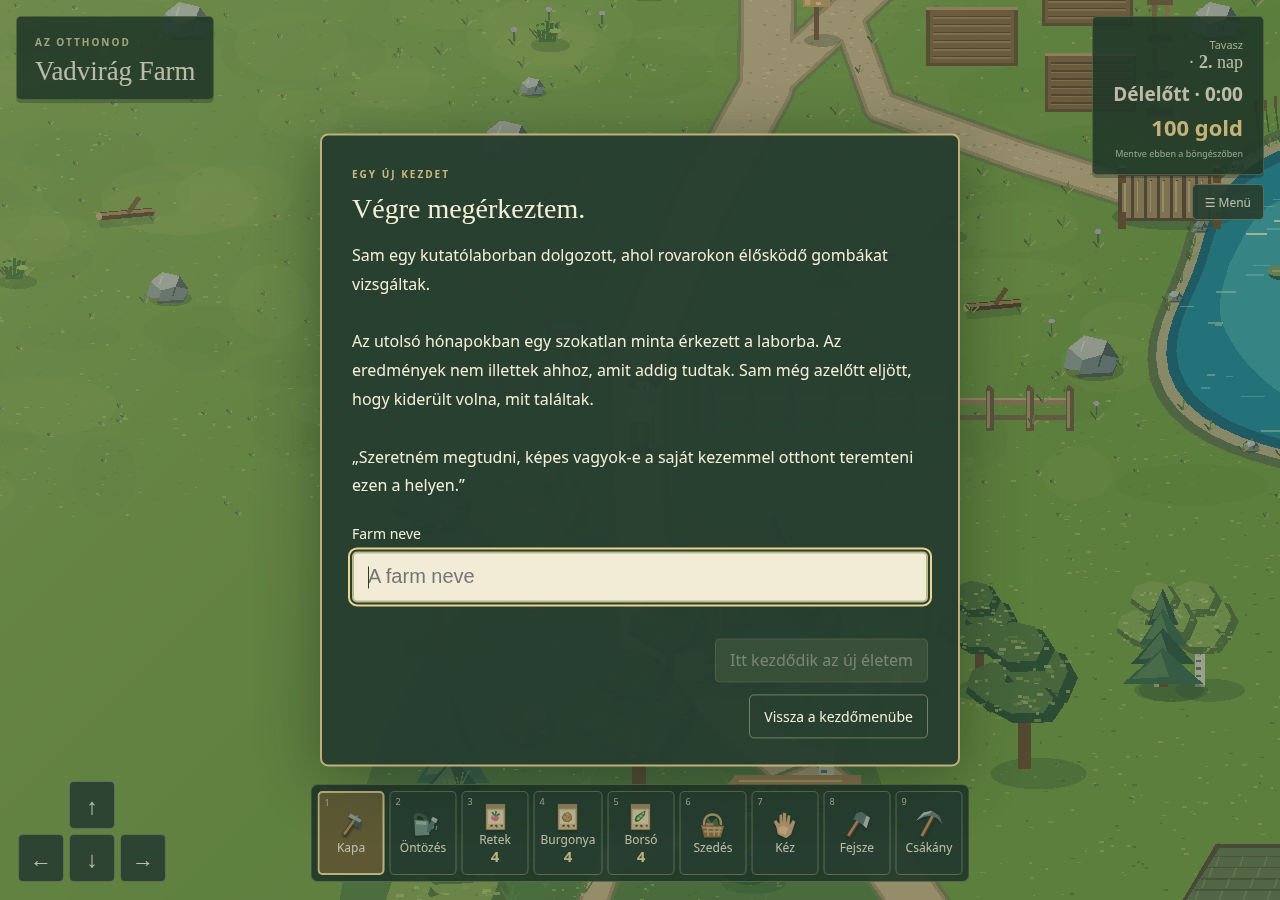
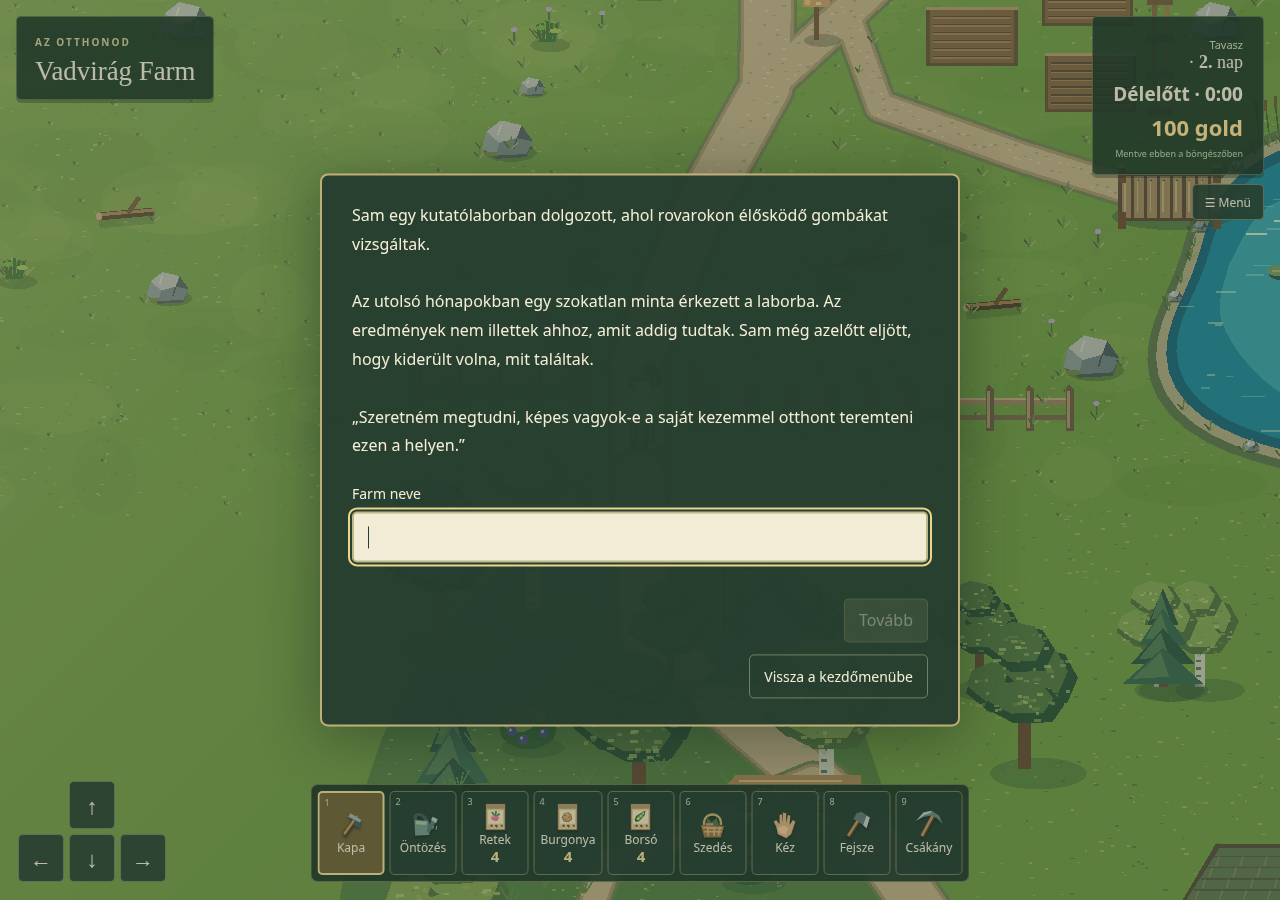
Simplify the introduction headings and farm naming controls

Changed region(s): [[0.25, 0.1244, 0.75, 0.8711]]

diff --git a/index.html b/index.html
@@ -33,7 +33,7 @@
   <div id="sleep-shade" aria-hidden="true"></div>
   <p id="status" role="status"></p>
   <div id="controls" aria-label="Mozgásvezérlés"><button data-dir="up" aria-label="Fel">↑</button><button data-dir="left" aria-label="Balra">←</button><button data-dir="down" aria-label="Le">↓</button><button data-dir="right" aria-label="Jobbra">→</button></div>
-  <dialog id="dialogue" aria-labelledby="dialogue-title"><form method="dialog"><div id="speaker" hidden><div id="speaker-portrait"></div><span id="speaker-name"></span></div><span class="eyebrow" id="dialogue-label">EGY ÚJ KEZDET</span><h2 id="dialogue-title">Végre megérkeztem.</h2><p id="dialogue-text"></p><section id="preview-end-panel" hidden><button id="preview-farms" type="button">Vissza a farmválasztáshoz</button></section><section id="start-panel" hidden><div class="start-actions"><button id="continue-farm" type="button" hidden>Folytatás<small id="continue-farm-name"></small></button><button id="new-farm" type="button">Új játék</button></div><p class="farm-library-hint">Minden farm külön mentést kap. Új játék indításakor a korábbi birtokaid megmaradnak.</p><p id="farm-list-error" role="status"></p><button id="retry-farms" type="button" hidden>Újrapróbálom</button><h3>Mentett farmjaid</h3><div id="farm-list"></div></section><section id="morning-sale-panel" hidden></section><section id="level-reward-panel" hidden></section><section id="farm-name-panel" hidden><label for="farm-name">Farm neve</label><input id="farm-name" type="text" maxlength="80" autocomplete="off" placeholder="A farm neve" aria-describedby="farm-name-error"><p id="farm-name-error" role="status"></p><button id="start-farm" type="button">Itt kezdődik az új életem</button><button id="cancel-farm-name" type="button">Vissza a kezdőmenübe</button></section><section id="menu-panel" hidden><button id="open-start-menu" type="button">Kezdőmenü · Farmválasztás</button><button id="story" type="button">Történet</button><button id="help" type="button">Irányítás</button><button id="music-toggle" type="button">Zene: be</button><label class="music-choice" for="music-track">Dallam<select id="music-track" aria-label="Háttérzene kiválasztása"></select></label><button id="produce" type="button">Készlet</button></section><section id="inventory-panel" hidden><div class="inventory-tabs" role="tablist" aria-label="Készlet, ismerősök és jártasságok"><button id="items-tab" type="button" role="tab" aria-selected="true" aria-controls="items-page">Készlet</button><button id="people-tab" type="button" role="tab" aria-selected="false" aria-controls="people-page" tabindex="-1">Ismerősök</button><button id="skills-tab" type="button" role="tab" aria-selected="false" aria-controls="skills-page" tabindex="-1">Jártasságok</button></div><div id="items-page" role="tabpanel" aria-labelledby="items-tab"><h3>Betakarított termények</h3><div id="inventory-produce" class="inventory-grid"></div><h3>Ültetőanyagok</h3><div id="inventory-seeds" class="inventory-grid"></div><h3>Alapanyagok</h3><div id="inventory-materials" class="inventory-grid"></div></div><div id="people-page" role="tabpanel" aria-labelledby="people-tab" hidden></div><div id="skills-page" role="tabpanel" aria-labelledby="skills-tab" hidden></div></section><section id="shop-panel" hidden></section><section id="catalog-panel" hidden><div id="catalog-rows"></div><p id="catalog-total" role="status"></p><button id="place-order" type="button">Megrendelem</button></section><section id="mailbox-panel" hidden><p id="mailbox-content"></p><button id="collect-package" type="button">Átveszem a csomagot</button></section><section id="shipping-panel" hidden><div class="shipping-heading">Eladásra szánt termények</div><div id="shipping-crate" class="slot-grid" aria-label="Eladóláda"></div><div class="shipping-heading">A készleted</div><div id="shipping-inventory" class="slot-grid" aria-label="Betakarított termények"></div><p class="shipping-hint">Kattintás vagy húzás: teljes halom · Shift+kattintás: 1 db</p><p id="shipping-total"></p></section><button id="sleep" type="button" hidden>Pihenés reggelig</button><button id="export-save" type="button" hidden>Mentés letöltése</button><button id="dialogue-close" autofocus>Folytatás</button></form></dialog>
+  <dialog id="dialogue" aria-labelledby="dialogue-title"><form method="dialog"><div id="speaker" hidden><div id="speaker-portrait"></div><span id="speaker-name"></span></div><span class="eyebrow" id="dialogue-label" hidden></span><h2 id="dialogue-title" hidden></h2><p id="dialogue-text"></p><section id="preview-end-panel" hidden><button id="preview-farms" type="button">Vissza a farmválasztáshoz</button></section><section id="start-panel" hidden><div class="start-actions"><button id="continue-farm" type="button" hidden>Folytatás<small id="continue-farm-name"></small></button><button id="new-farm" type="button">Új játék</button></div><p class="farm-library-hint">Minden farm külön mentést kap. Új játék indításakor a korábbi birtokaid megmaradnak.</p><p id="farm-list-error" role="status"></p><button id="retry-farms" type="button" hidden>Újrapróbálom</button><h3>Mentett farmjaid</h3><div id="farm-list"></div></section><section id="morning-sale-panel" hidden></section><section id="level-reward-panel" hidden></section><section id="farm-name-panel" hidden><label for="farm-name">Farm neve</label><input id="farm-name" type="text" maxlength="80" autocomplete="off" aria-describedby="farm-name-error"><p id="farm-name-error" role="status"></p><button id="start-farm" type="button">Tovább</button><button id="cancel-farm-name" type="button">Vissza a kezdőmenübe</button></section><section id="menu-panel" hidden><button id="open-start-menu" type="button">Kezdőmenü · Farmválasztás</button><button id="story" type="button">Történet</button><button id="help" type="button">Irányítás</button><button id="music-toggle" type="button">Zene: be</button><label class="music-choice" for="music-track">Dallam<select id="music-track" aria-label="Háttérzene kiválasztása"></select></label><button id="produce" type="button">Készlet</button></section><section id="inventory-panel" hidden><div class="inventory-tabs" role="tablist" aria-label="Készlet, ismerősök és jártasságok"><button id="items-tab" type="button" role="tab" aria-selected="true" aria-controls="items-page">Készlet</button><button id="people-tab" type="button" role="tab" aria-selected="false" aria-controls="people-page" tabindex="-1">Ismerősök</button><button id="skills-tab" type="button" role="tab" aria-selected="false" aria-controls="skills-page" tabindex="-1">Jártasságok</button></div><div id="items-page" role="tabpanel" aria-labelledby="items-tab"><h3>Betakarított termények</h3><div id="inventory-produce" class="inventory-grid"></div><h3>Ültetőanyagok</h3><div id="inventory-seeds" class="inventory-grid"></div><h3>Alapanyagok</h3><div id="inventory-materials" class="inventory-grid"></div></div><div id="people-page" role="tabpanel" aria-labelledby="people-tab" hidden></div><div id="skills-page" role="tabpanel" aria-labelledby="skills-tab" hidden></div></section><section id="shop-panel" hidden></section><section id="catalog-panel" hidden><div id="catalog-rows"></div><p id="catalog-total" role="status"></p><button id="place-order" type="button">Megrendelem</button></section><section id="mailbox-panel" hidden><p id="mailbox-content"></p><button id="collect-package" type="button">Átveszem a csomagot</button></section><section id="shipping-panel" hidden><div class="shipping-heading">Eladásra szánt termények</div><div id="shipping-crate" class="slot-grid" aria-label="Eladóláda"></div><div class="shipping-heading">A készleted</div><div id="shipping-inventory" class="slot-grid" aria-label="Betakarított termények"></div><p class="shipping-hint">Kattintás vagy húzás: teljes halom · Shift+kattintás: 1 db</p><p id="shipping-total"></p></section><button id="sleep" type="button" hidden>Pihenés reggelig</button><button id="export-save" type="button" hidden>Mentés letöltése</button><button id="dialogue-close" autofocus>Folytatás</button></form></dialog>
 </main>
 <script type="module" src="/src/main.ts"></script>
 </body></html>

diff --git a/src/main.ts b/src/main.ts
@@ -39,12 +39,13 @@ function showDialogue(title:string,text:string,label='A BIRTOKON'){
  for(const id of ['preview-end-panel','shop-panel','start-panel','morning-sale-panel','level-reward-panel','farm-name-panel','shipping-panel','menu-panel','inventory-panel','catalog-panel','mailbox-panel'])document.querySelector<HTMLElement>(`#${id}`)!.hidden=true;
  document.querySelector<HTMLButtonElement>('#dialogue-close')!.hidden=false;
  document.querySelector('#dialogue-close')!.textContent='Folytatás';
- document.querySelector('#dialogue-title')!.textContent=title;
+ document.querySelector('#dialogue-title')!.textContent=title;document.querySelector<HTMLElement>('#dialogue-title')!.hidden=!title;document.querySelector<HTMLElement>('#dialogue-label')!.hidden=!label;
+ if(title){dialogue.setAttribute('aria-labelledby','dialogue-title');dialogue.removeAttribute('aria-label');}else{dialogue.removeAttribute('aria-labelledby');dialogue.setAttribute('aria-label','Sam története');}
  document.querySelector('#dialogue-text')!.textContent=text;
  document.querySelector('#dialogue-label')!.textContent=label;
  if(!dialogue.open)dialogue.showModal();
 }
-document.querySelector('#story')!.addEventListener('click',()=>showDialogue('Végre megérkeztem.',story,'EGY ÚJ KEZDET'));
+document.querySelector('#story')!.addEventListener('click',()=>showDialogue('',story,''));
 document.querySelector('#help')!.addEventListener('click',()=>showDialogue('Lassan, a saját tempódban.','Mozgás: WASD, nyilak vagy a képernyő iránygombjai. Ugrás: Space. Futás: tartsd a Shiftet. Az ugrás magasabbra és messzebbre visz; akadályokon továbbra sem lehet áthaladni.\n\nA háznál, tónál és melléképületnél az E billentyűvel vagy a megjelenő jelzésre kattintva nézhetsz körül. A napló, a magkatalógus, az eladóláda és a postaláda a világban használható: sétálj oda, majd E vagy kattintás/koppintás.\n\nTakarítás: Kéz (7) a gazhoz, Fejsze (8) az ágakhoz, Csákány (9) a kövekhez. Kattints közelről vagy F. Két nap után, műveletlen helyen újra megjelennek.\n\nKertészkedés: 1–6 vagy az alsó eszközsáv. Kattints egy közeli földkockára, vagy használd az F billentyűt az előtted lévő kockán. Kapa → ültetőanyag → öntözés. A három ágyásban és a szabad rétfoltokon dolgozhatsz.\n\n6 perc nappal után éjszaka lesz. A 2. és 3. éjszakai percben figyelmeztetés érkezik, majd 3:30–4:00 között elfáradsz és otthon ébredsz. A farmon minden holmid biztonságban van. A birtokon kívül 50% eséllyel egy nálad lévő tárgyat (az alap szerszámok és a madárodú kivételével), máskülönben legfeljebb 10 goldot veszítesz. Üres készlet vagy erszény esetén a kiválasztott rablási kísérlet sikertelen. A verandán a Naplóval korábban is lefekhetsz.\n\nA kert és az idő automatikusan mentődik ebben a böngészőben. Az öntözött növények reggel fejlődnek. Éréskor válaszd a Szedés eszközt (6), majd kattints a növényre. A leszedett termények Tab-bal vagy a Menü → Készlet pontban nézhetők meg. A veranda bal oldalán lévő eladóládába teheted a termést. Napzárásig visszavehető, reggel megkapod az árát. Retek: 15, burgonya: 30, borsó: 12 gold/db. A háznál lévő magkatalógusból rendelhetsz (retek 5, burgonya 10, borsó 15 gold/db), másnap a kapu melletti postaládából veheted át. Készlet: Tab; bezárás: Tab vagy Escape. A déli kapun át a faluba sétálhatsz; balra az erdei ösvényen áfonyát gyűjthetsz (E, F vagy koppintás), a bokrok két nap után újrateremnek. A falutéren faiskola, Kertitó Szaküzlet és pihenőpad vár. Az üzletek csak nappal tartanak nyitva, éjszakára bezárnak. A stamina még nincs bekötve.','IRÁNYÍTÁS'));
 const held=new Set<string>();
 function release(){held.clear();const run=document.querySelector<HTMLButtonElement>('#run');if(run)run.setAttribute('aria-pressed','false');document.querySelectorAll('.active').forEach(el=>el.classList.remove('active'));}
@@ -201,7 +202,7 @@ class Farm extends Phaser.Scene {
   const name=this.farmName??'A farmod';document.querySelector('h1')!.textContent=name;document.title=`${name} · farmjáték`;document.querySelector('#app')!.setAttribute('aria-label',name);
  }
  private openFarmNaming(isNew=false){
-  this.naming=true;this.draftingFarm=isNew;showDialogue('Végre megérkeztem.',story,'EGY ÚJ KEZDET');
+  this.naming=true;this.draftingFarm=isNew;showDialogue('',story,'');
   document.querySelector<HTMLElement>('#farm-name-panel')!.hidden=false;document.querySelector<HTMLButtonElement>('#dialogue-close')!.hidden=true;
   const input=document.querySelector<HTMLInputElement>('#farm-name')!;input.value='';input.focus();this.validateFarmName();
  }
@@ -806,7 +807,7 @@ class Farm extends Phaser.Scene {
   resize();this.scale.on('resize',resize);
   this.events.once('shutdown',()=>this.scale.off('resize',resize));
   dialogue.addEventListener('close',()=>{this.input.keyboard?.resetKeys();release();});
-  showDialogue('Végre megérkeztem.',story,'EGY ÚJ KEZDET');
+  showDialogue('',story,'');
   void this.initStorage();
   this.keys=this.input.keyboard!.addKeys('W,A,S,D,UP,DOWN,LEFT,RIGHT,SHIFT',false) as Record<string,Phaser.Input.Keyboard.Key>;
   const inventoryTabs=['items','people','skills'] as const;

diff --git a/docs/jatekterv.md b/docs/jatekterv.md
@@ -405,3 +405,5 @@ Az új farm elnevezésekor és a Menü → Történet felületen az alábbi köz
 - A 15. nap végállapota mentődik, a következő nap növekedése, rendelései, termelése és eladási elszámolása nem fut le előre. A ládába tett termény, holmik, pénz és minden elért eredmény megmarad a későbbi folytatáshoz. A lezárt napot a meglévő óraformátum teljesen eltelt napként őrzi, új mentésverzió nélkül.
 - Visszatöltéskor ugyanez a végüzenet jelenik meg. A játékos a farmválasztáshoz térhet vissza, másik vagy új farmot indíthat, illetve letöltheti mentését. Escape nem indítja tovább a lezárt napot.
 - A korábban már nyárba vagy későbbre jutott mentéseket nem tekerjük vissza: megnyitásukkor ugyanez a fejlesztési határ fogadja a játékost, az eredeti adatait megőrizve.
+
+- A bevezetőből eltűnt az „EGY ÚJ KEZDET” és a „Végre megérkeztem.” címsor. A farmnév mezőben nincs helykitöltő, a „Farm neve” címke megmarad. Az indítógomb felirata „Tovább”. A Történet menüpont ugyanezt a cím nélküli bevezetőt mutatja.
